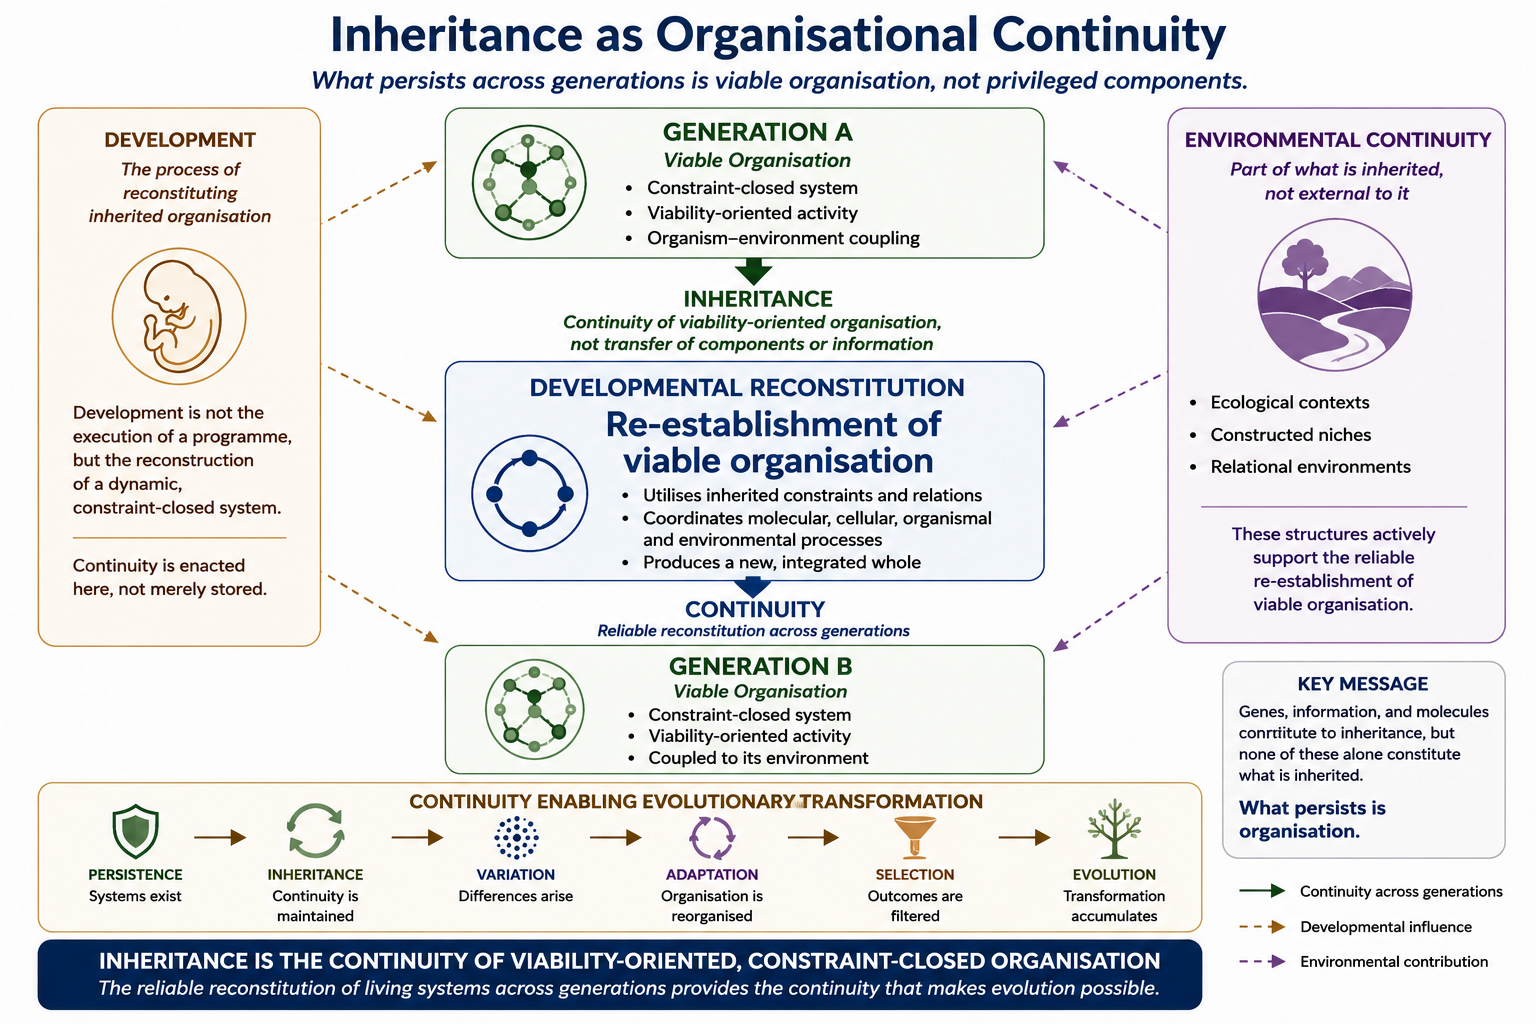
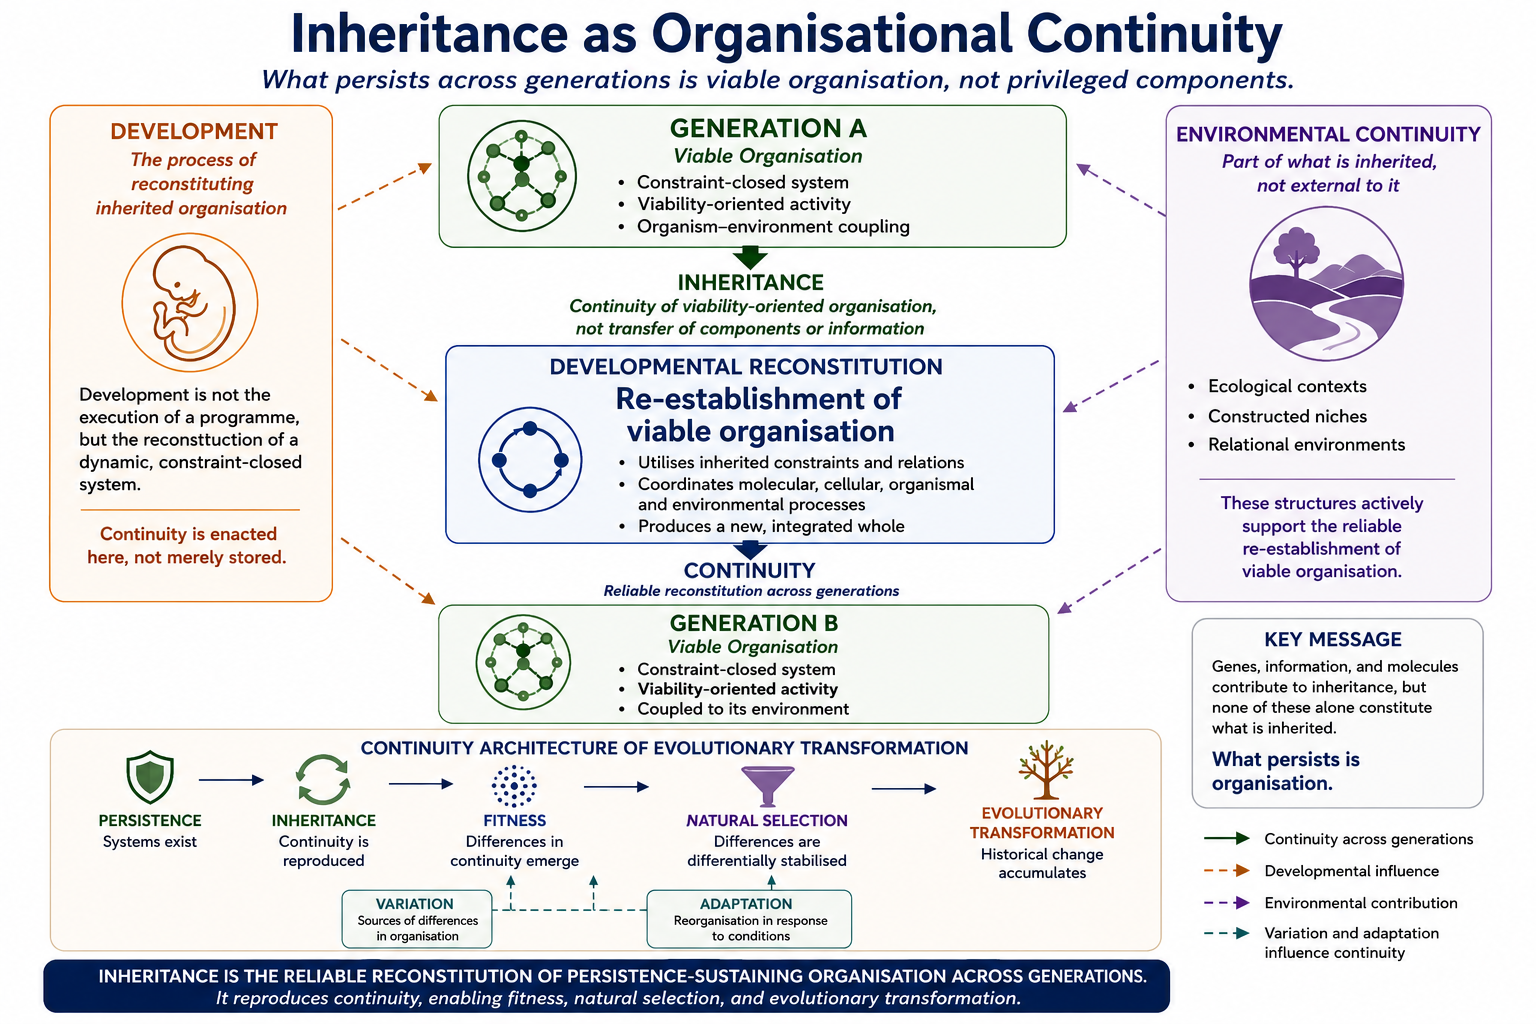
Audit edits

diff --git a/src/content/articles/inheritance-and-continuity-in-aps-ci.md b/src/content/articles/inheritance-and-continuity-in-aps-ci.md
@@ -6,7 +6,7 @@ type: article
 status: canonical
 canonical: true
 canonicalLockDate: 2026-04-11
-revised: 2026-06-15
+revised: 2026-06-19
 cluster: evolutionary-dynamics
 role: core
 
@@ -16,13 +16,11 @@ abstract: >
   of viability-oriented organisation across generations. APS reframes
   inheritance as the reliable reconstitution of constraint-closed living
   systems, integrating development, environment, and organisation into a
-  unified account of biological continuity. Inheritance explains how
-  viable organisation persists through time, providing the continuity that
-  makes evolutionary transformation possible.
+  unified account of biological continuity. Inheritance explains how viable organisation is reliably reconstituted across generations, providing the continuity that links organised persistence to fitness, natural selection, and evolutionary transformation.
 
 keyPoints:
   - Inheritance in APS is the continuity of viability-oriented organisation across generations.
-  - What persists is not a component but a reproducible pattern of constraint-closed organisation.
+  - What persists is not a component but a reproducible pattern of persistence-sustaining organisation.
   - Genes participate in inheritance but do not constitute it.
   - Development is the process through which inherited organisation is reconstituted.
   - Organism–environment coupling is part of what is inherited, not external to it.
@@ -100,7 +98,7 @@ Inheritance is not the transfer of a substance, code, or informational entity fr
 
 What persists through evolutionary history is not a gene, structure, or molecule considered in isolation. What persists is a pattern of organisation capable of maintaining viability within changing circumstances. This pattern includes developmental processes, constraint relations, organism–environment interactions, and the organisational conditions that enable a living system to continue existing. Inheritance is therefore best understood as a process through which viable organisation is repeatedly re-established rather than as a thing that is transmitted.
 
-Inheritance stabilises continuity across generations and thereby provides the foundation upon which variation, adaptation, and selection can operate. Without inheritance there could be no cumulative evolutionary transformation because there would be no enduring organisational continuity to transform.
+Inheritance stabilises continuity across generations and thereby provides the foundation upon which variation, adaptation, and selection can operate. Without inheritance there could be no cumulative evolutionary transformation because there would be no enduring organisational continuity to transform. Inheritance therefore occupies a central position within the APS continuity architecture. Biological agency sustains viability-oriented activity. Viability enables organised persistence. Inheritance reproduces that persistence across generations, providing the continuity upon which fitness, natural selection, and evolutionary transformation depend. Evolutionary change therefore presupposes inherited continuity before it can become historically differentiated.
 
 ## Beyond Component Transmission
 
@@ -123,6 +121,8 @@ This understanding differs significantly from accounts that treat development as
 Development is the point at which continuity becomes active. Through developmental processes, inherited organisational relations are rebuilt and integrated into a functioning whole capable of maintaining itself. Continuity is therefore enacted rather than merely stored. The persistence of a lineage depends not only on what is inherited but also on the successful developmental reconstruction of inherited organisation.
 
 Inheritance and development consequently form a single continuity architecture. Inheritance provides the conditions through which viable organisation can be re-established, while development performs the re-establishment itself. Neither process is intelligible in isolation. Together they explain how living systems preserve continuity despite continual material and organisational change.
+
+This continuity architecture extends beyond inheritance and development alone. The successful developmental reconstitution of viable organisation contributes directly to the continuity of persistence-sustaining organisation across generations. In this sense, development helps establish the continuity upon which fitness and natural selection subsequently operate.
 
 ## The Role of Environment in Continuity
 
@@ -165,11 +165,15 @@ This explains a central feature of biological systems. Evolutionary change does 
 
 Inheritance provides the continuity that makes evolution possible. Without the repeated reconstitution of viable organisation, there would be no stable basis upon which variation, adaptation, and selection could operate. Evolution therefore depends upon inheritance not merely as a mechanism of transmission but as the process through which continuity itself is maintained.
 
-Within APS, persistence establishes the existence of living systems, inheritance maintains their continuity across generations, variation introduces organisational differences, adaptation reorganises activity in response to changing conditions, and selection influences which forms of organisation remain historically continuous. Evolution emerges from the interaction of these processes rather than from any single process considered in isolation.
+Within APS, biological agency sustains viability-oriented activity, viability enables organised persistence, inheritance reproduces that persistence across generations, fitness reflects differences in continuity among inherited forms of organisation, and natural selection differentially stabilises those differences through evolutionary time. Evolutionary transformation emerges from the interaction of these processes rather than from any single process considered in isolation.
+
+Inheritance occupies a particularly important position within this sequence because it reproduces the continuity that fitness evaluates and natural selection differentially stabilises. Without inheritance there could be no enduring continuity across generations and therefore no basis upon which differential continuity could emerge. Fitness and natural selection consequently presuppose inherited continuity rather than replacing it.
 
 Inheritance occupies a particularly important position within this architecture because it connects continuity and transformation. Evolutionary change is possible only because viable organisation is reliably re-established generation after generation. What evolves is therefore not an arbitrary collection of traits or components but an ongoing lineage of organised persistence extending through time.
 
-APS consequently rejects the view that inheritance merely preserves the past. Inheritance simultaneously conserves continuity and enables transformation. It stabilises the organisational conditions through which novelty can accumulate without destroying viability. The historical transformation of organised persistence therefore depends upon inheritance at every stage.
+[[box:inheritance-fitness-and-natural-selection]]
+
+APS consequently rejects the view that inheritance merely preserves the past. Inheritance simultaneously conserves continuity and enables transformation. It stabilises the organisational conditions through which novelty can accumulate without destroying viability. The historical transformation of organised persistence therefore depends upon inheritance at every stage. Evolutionary transformation is possible only because continuity is repeatedly regenerated before it is varied, differentially continuous, and selectively stabilised.
 
 ## From Information to Organisation
 
@@ -187,7 +191,11 @@ Inheritance therefore links developmental continuity, ecological continuity, and
 
 Inheritance occupies a central position within the evolutionary continuity architecture developed throughout APS. It explains how viable organisation persists across generations, providing the continuity that allows variation, adaptation, and selection to contribute to long-term evolutionary transformation.
 
+Inheritance therefore occupies a pivotal position within the continuity architecture developed throughout APS. Organised persistence can become historically continuous only if continuity is repeatedly regenerated across generations. Fitness reflects differences in that continuity, while natural selection differentially stabilises those differences. Inheritance provides the continuity that makes both processes possible.
+
 The significance of inheritance therefore lies not in the transmission of particular components but in the reliable reconstitution of living organisation. Genes, developmental processes, ecological relations, and organism–environment interactions all contribute to this continuity, but none alone constitutes what is inherited. What persists is a lineage of viability-oriented organisation capable of repeatedly reconstructing itself despite continual change.
+
+The relationship between inheritance, fitness, and natural selection is particularly important. Inheritance reproduces continuity. Fitness reflects differences in continuity among forms of persistence-sustaining organisation. Natural selection differentially stabilises those differences across evolutionary time. These processes are therefore complementary components of a single evolutionary continuity architecture rather than competing explanations.
 
 Inheritance thus reveals an important principle of evolutionary organisation. Living systems persist historically not because they replicate themselves perfectly, but because they continually regenerate the organisational conditions required for viability. Evolutionary continuity emerges from this ongoing process of reconstitution, linking persistence in the present with transformation across generations.
 
@@ -200,4 +208,4 @@ Inheritance thus reveals an important principle of evolutionary organisation. Li
 
 ## Key Point
 
-Inheritance in APS is the continuity of viability-oriented, constraint-closed organisation. It explains how living systems repeatedly reconstitute viable organisation across generations, providing the continuity that makes evolutionary transformation possible.
+Inheritance in APS is the reliable reconstitution of viability-oriented, persistence-sustaining organisation across generations. It reproduces the continuity upon which fitness, natural selection, and evolutionary transformation depend, linking organised persistence in the present to evolutionary continuity through time.

diff --git a/src/content/boxes/aps-box-inheritance-fitness-and-natural-selection.md b/src/content/boxes/aps-box-inheritance-fitness-and-natural-selection.md
@@ -1,0 +1,27 @@
+---
+title: Inheritance, Fitness, and Natural Selection
+slug: inheritance-fitness-and-natural-selection
+type: box
+status: canonical
+date: 2026-06-19
+revised: 2026-06-19
+summary: >
+  Inheritance, fitness, and natural selection perform distinct but
+  complementary roles within evolutionary continuity. Inheritance
+  reproduces continuity across generations, fitness reflects differences
+  in continuity, and natural selection differentially stabilises those
+  differences through evolutionary time.
+---
+
+Inheritance, fitness, and natural selection are often discussed together, but they do not explain the same phenomenon. APS distinguishes them because each occupies a different position within the continuity architecture of evolutionary organisation.
+
+Inheritance concerns the reliable reconstitution of persistence-sustaining organisation across generations. Through inheritance, viable organisation is repeatedly regenerated despite continual material turnover, developmental transformation, and environmental change. Inheritance therefore explains how continuity is maintained through time.
+
+Fitness concerns differences in continuity among forms of inherited organisation. Some forms of persistence-sustaining organisation contribute more effectively to future continuity than others under particular developmental and ecological conditions. Fitness identifies these differences in continuity. It does not create continuity but reflects differences in the capacity of inherited organisation to remain historically continuous.
+
+Natural selection concerns the differential historical stabilisation of those differences in continuity. Selection does not generate inherited continuity, nor does it create fitness. Rather, it operates upon historically existing differences among forms of organised persistence, influencing which forms contribute more successfully to future continuity across populations and generations.
+
+These processes therefore form a sequence rather than competing explanations. Inheritance reproduces continuity. Fitness reflects differences in continuity. Natural selection differentially stabilises those differences through evolutionary time. Together they connect organised persistence in the present to evolutionary transformation across generations.
+
+APS therefore treats inheritance, fitness, and natural selection as complementary dimensions of a single continuity architecture. Inheritance explains how continuity is regenerated, fitness identifies differences in continuity, and natural selection explains how those differences become historically consequential within evolutionary change.
+---

diff --git a/src/content/articles/fitness-differential-continuity-and-organised-persistence-ci.md b/src/content/articles/fitness-differential-continuity-and-organised-persistence-ci.md
@@ -166,8 +166,6 @@ APS therefore rejects the interpretation of fitness as optimisation. Living syst
 
 This perspective also clarifies why fitness is inseparable from history. Fitness cannot be understood solely by examining organisms at a single moment in time because continuity unfolds across generations. What counts as fitness depends upon how persistence-sustaining organisation contributes to future continuity under changing developmental, ecological, and evolutionary conditions. Fitness therefore becomes a fundamentally historical concept concerned with the differential continuity of organised persistence through time.
 
-[[box:fitness-is-not-reproductive-success-alone]]
-
 ## Fitness and Viability
 
 The relationship between fitness and viability is foundational to the APS interpretation of evolution. Although the two concepts are closely related, they address different explanatory questions. Viability concerns whether organised persistence can be maintained under present conditions. Fitness concerns whether such persistence contributes to continuity across generations. The distinction is subtle but essential because it clarifies the relationship between present organisation and future continuity.
@@ -183,8 +181,6 @@ The distinction also helps clarify the relationship between biological and evolu
 [[box:viability-and-fitness]]
 
 From the APS perspective, viability and fitness should not be treated as competing concepts. Rather, they describe different temporal dimensions of organised persistence. Viability concerns the maintenance of continuity in the present. Fitness concerns the continuity of such persistence through time. Together they provide a more complete understanding of how living systems remain historically present despite ongoing developmental, ecological, and evolutionary change.
-
-[[box:viability-and-fitness]]
 
 ## Fitness and Adaptation
 
